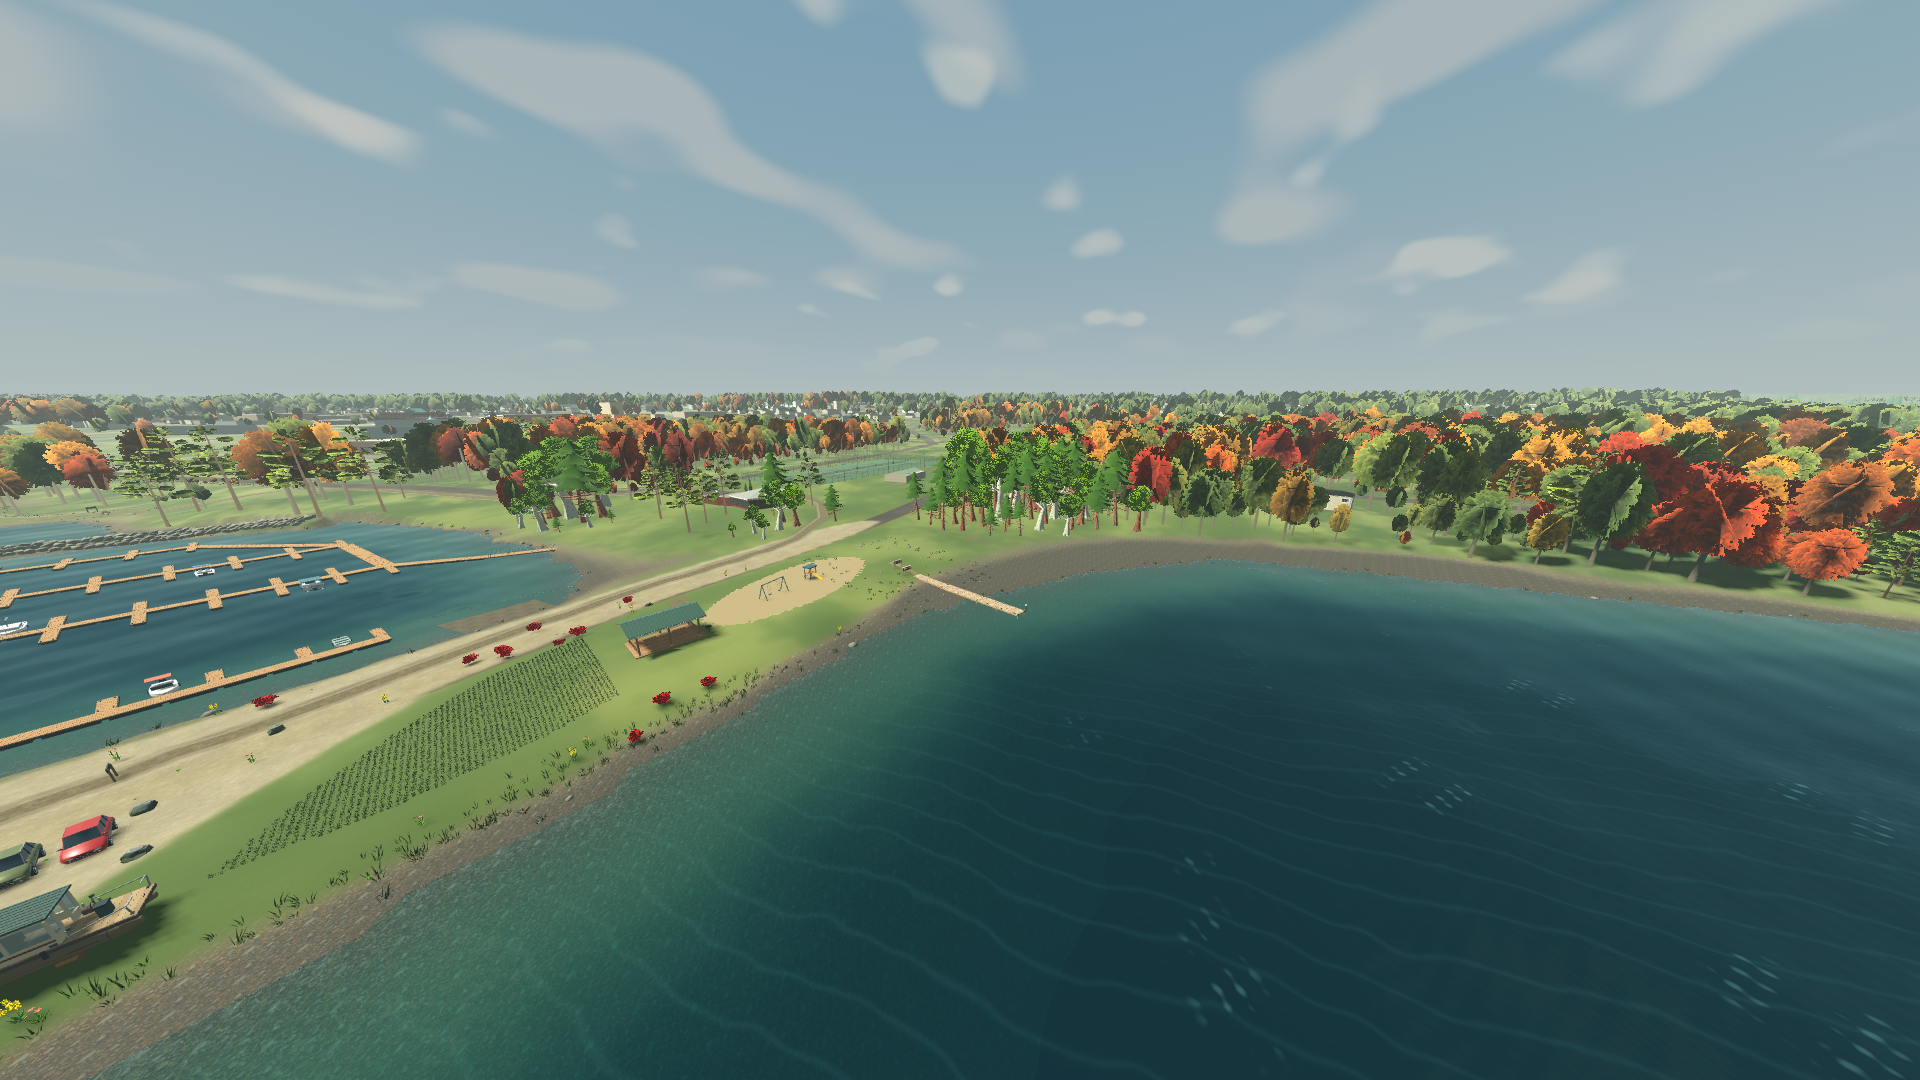
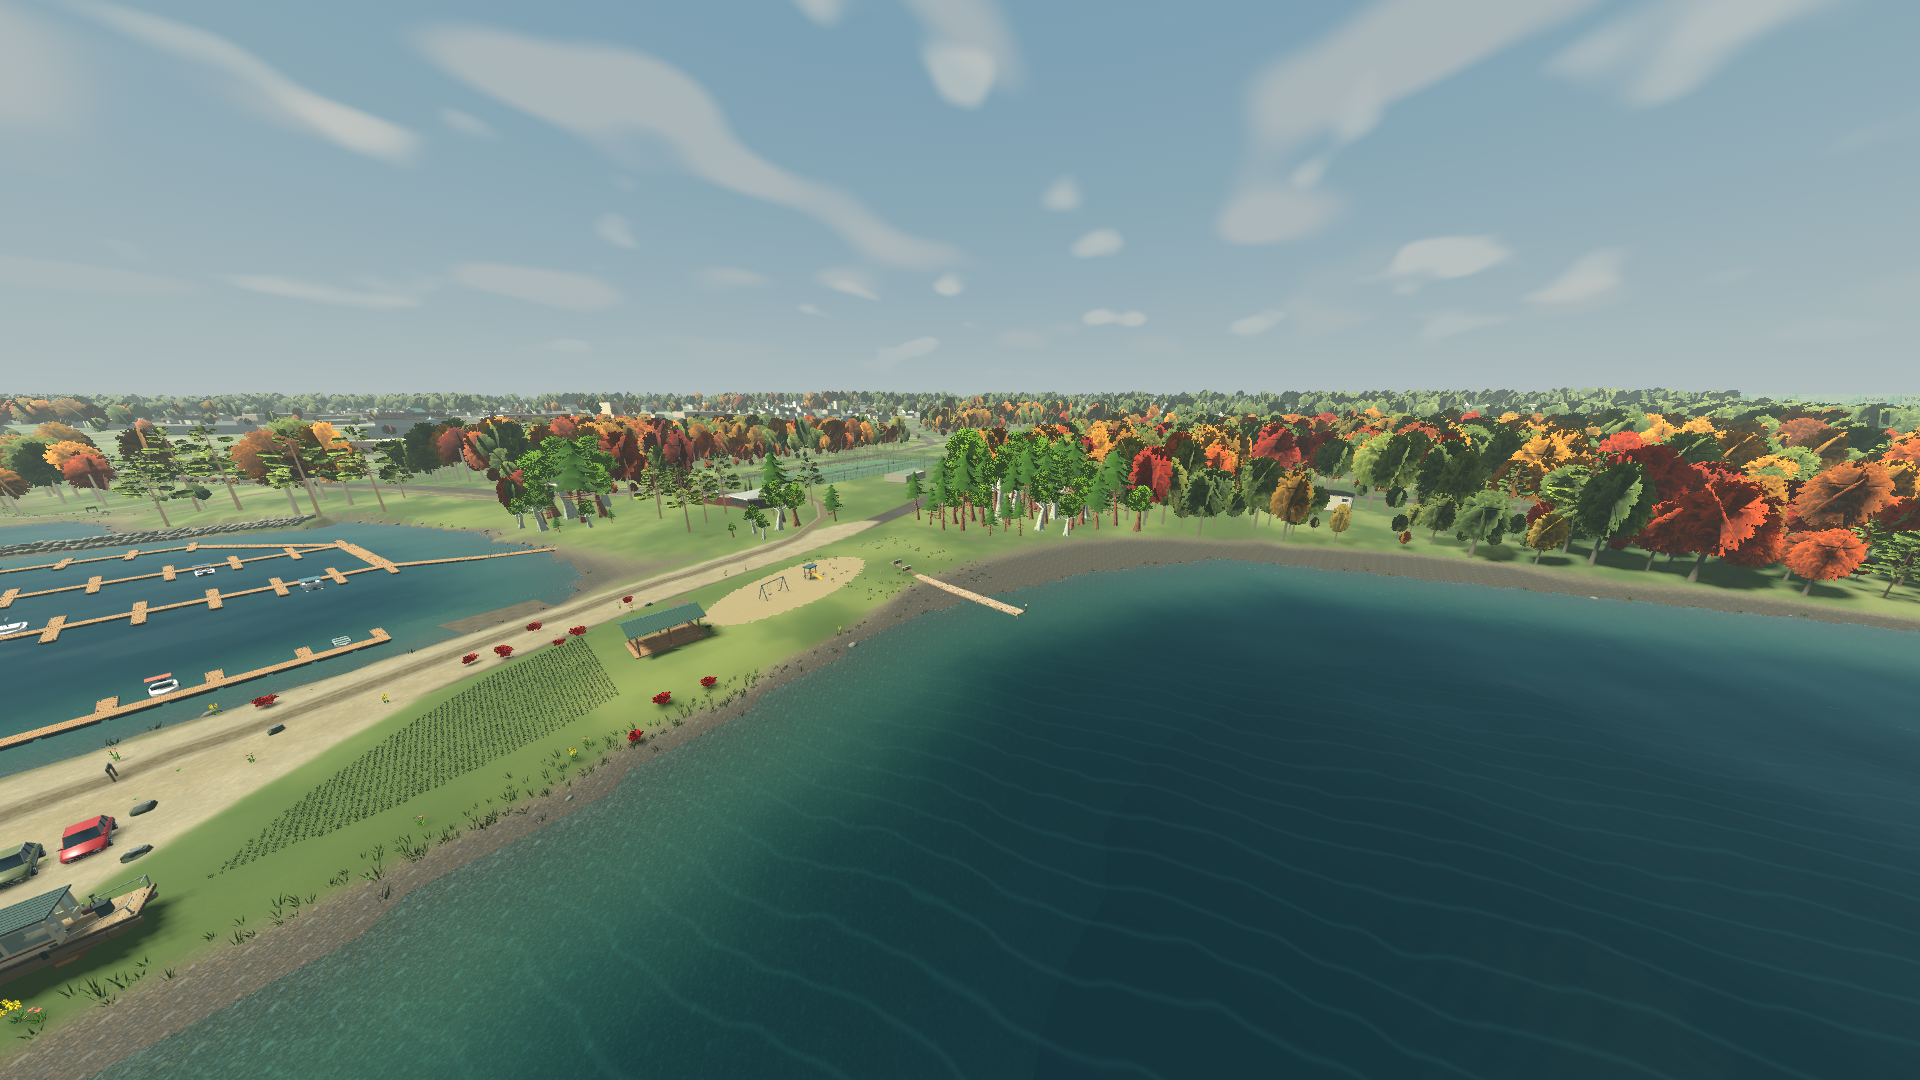
Record matched Riverside iteration two verification

diff --git a/docs/systems/RIVERSIDE-POC.md b/docs/systems/RIVERSIDE-POC.md
@@ -12,7 +12,7 @@ The experiment is geographically focused near the pavilion. Iteration 2 terrain 
 
 ## Reproducible visual checks
 
-Run `godot --path godot-cove --rendering-method gl_compatibility --script res://tests/capture_riverside.gd -- --benchmark --capture-dir=../docs/riverside-evidence/baseline` for the original, then add `--riverside-poc` and use the `experimental` directory. The script fixes the camera from the marina pavilion coordinates in the checked-out layout, uses the same FOV and day-cycle stages for both profiles, and sets Balanced at 1920 × 1080. It writes five PNGs per profile: public wharf, marina park, boat viewpoint, golden hour, and night marina. These are actual runtime screenshots; the capture script is in the repository. The screenshot pairs are in [riverside-evidence](../riverside-evidence/).
+Run `godot --path godot-cove --rendering-method gl_compatibility --script res://tests/capture_riverside.gd -- --benchmark --capture-dir=../docs/riverside-evidence/baseline` for the original, then add `--riverside-poc` and use the `experimental` directory. The script fixes the camera from the marina pavilion coordinates in the checked-out layout, uses the same FOV and day-cycle stages for both profiles, and sets Balanced at 1920 × 1080. It writes eight PNGs per profile: public wharf, marina park, wide meadow, inland ridge, elevated marina, boat viewpoint, golden hour, and night marina. These are actual runtime screenshots; the capture script is in the repository. The initial five screenshot pairs are in [riverside-evidence](../riverside-evidence/).
 
 For 720p Performance pass `--preset=performance --capture-resolution=720` after `--`. The capture script temporarily disables a locally saved fullscreen preference and sets the window to 1280 × 720; both the script's earlier resize and Godot's startup `--resolution` option were overridden by that preference. Check the `CAPTURE` dimensions printed in the log. For each view, the script samples 300 frames after a short settle, reports median and 95th percentile wall time between rendered frames and draw calls, then checks mower index identity, cut, regrow, and profile deactivation outside the marina. This is a single stationary-camera run, not the requested three 30-second moving samples; it includes desktop scheduling and can show outliers. It does not provide a separate GPU timer or measure VRAM. See the draft PR for the measured results and test gaps.
 
@@ -46,8 +46,27 @@ The surveyed Quaternius tree geometry remains in place. A deterministic, species
 
 The visual method follows the terrain tint plus grass filling approach shown in the [Genshin Impact GDC presentation](https://media.gdcvault.com/GDC%2B2021/2021GDC%2B_%2BHaoyu%2BCai%2B_%2Bpresentation%2Bfile.pdf). [Godot's MultiMesh guidance](https://docs.godotengine.org/en/4.5/tutorials/performance/using_multimesh.html) recommends spatial separation because a MultiMesh culls as one object. Its [API documentation](https://docs.godotengine.org/en/4.5/classes/class_multimesh.html) also explains that `visible_instance_count` shows the first N instances, which caused hard rectangular density cuts in the prior layout. We inspected Poly Haven's [CC0 texture library and license](https://polyhaven.com/license); the existing grass photograph was a closer match for a green early-autumn meadow once its colour was used directly, so this iteration adds no new downloaded texture.
 
-Matched 1920 × 1080 Balanced screenshots for eight fixed camera views are in [iteration2/before](../riverside-evidence/iteration2/before/) and [iteration2/after](../riverside-evidence/iteration2/after/). The capture script prints candidate, accepted, masked, mowing, and chunk counts. The matched benchmark results and remaining playtest gaps are recorded below.
+Matched 1920 × 1080 Balanced screenshots for eight fixed camera views are in [iteration2/before](../riverside-evidence/iteration2/before/) and [iteration2/after](../riverside-evidence/iteration2/after/). The before checkout is the first Riverside profile with the same merged main changes, including PR #140's river waves and wakes. The capture script prints candidate, accepted, masked, mowing, and chunk counts. The final iteration placed 93,020 decorative clumps across 183 chunks within the 178 m experiment area, compared with the prior small rectangle. It excluded 10,977 candidates using paving and path masks and 1,334 candidates using mowing polygons; other candidates failed road, building, shore, dock, height, or playground checks.
+
+The matched 1920 × 1080 Balanced pass used Godot 4.7.2, GL Compatibility, NVIDIA GTX 1050, and the same saved VSync preference in both runs. Each view has 300 stationary frames after settling. Values are median / p95 milliseconds, followed by draw calls.
+
+| View | Iteration 1 | Iteration 2 | Draw calls |
+| --- | ---: | ---: | ---: |
+| Public wharf | 18.42 / 46.80 | 18.68 / 49.62 | 4005 → 4022 |
+| Marina park | 13.80 / 36.09 | 14.01 / 33.54 | 2889 → 2916 |
+| Wide meadow | 25.58 / 43.45 | 29.30 / 48.47 | 3049 → 3143 |
+| Inland ridge | 20.44 / 54.68 | 21.02 / 60.04 | 5484 → 5563 |
+| Elevated marina | 19.59 / 51.88 | 19.80 / 50.49 | 4547 → 4571 |
+| Boat viewpoint | 18.19 / 47.71 | 17.28 / 40.96 | 4265 → 4309 |
+| Golden hour | 22.41 / 56.54 | 24.20 / 52.88 | 5367 → 5388 |
+| Night marina | 18.75 / 47.01 | 18.57 / 45.47 | 4158 → 4185 |
+
+The wide meadow is the grass-heavy case and rose 14.5% in median frame time. These are wall-clock frame intervals with VSync and desktop scheduling; they are not isolated GPU timings. The final run had no script or shader errors. Mowing index equality, cut, regrow, and profile deactivation checks all returned true. The existing `Image.load_from_file` warnings appeared in both profiles.
+
+At 1280 × 720 Performance, the same wide meadow view measured 13.66 / 35.18 ms for iteration 1 and 16.25 / 39.96 ms for iteration 2, a 19.0% median increase; draw calls rose from 2640 to 2716. The printed capture dimensions confirmed 1280 × 720 despite the saved fullscreen preference. Only the wide meadow was sampled at this preset; [the 720p image pair](../riverside-evidence/iteration2/) is retained separately from the 1080p set. Moving-camera performance, GPU timer/VRAM, integrated GPU, and Scenic remain unmeasured.
+
+The headless `verify_gameplay_polish.gd` run passed with `--riverside-poc` after merging main. Its scripted checks covered weather transitions and persistence, camera occlusion, storm and shoreline wave exposure, fishing casts and bobbers, swimming entry, multiple wakes, steering, anchors, dock lines, and a real ENet late join with live synchronization. This is automated coverage of those systems, not a manual playthrough.
 
 ## Review limits
 
-The proof of concept requires a human pass for visual quality, transition smoothness while travelling across the marina boundary, water near/far seam during boating, gameplay access around decorative objects, host/guest play, and night navigation. The capture does not exercise vehicle controls, docking, fishing, fueling, saves, or a full day/night cycle. The Compatibility renderer and an NVIDIA GTX 1050 were used for the visual run; Forward+ and integrated GPU remain unmeasured. The CC0 Standard archive does not include the requested complete species range, so the selected vegetation palette is deliberately narrower.
+The proof of concept requires a human pass for visual quality, transition smoothness while travelling across the marina boundary, water near/far seam during boating, gameplay access around decorative objects, host/guest play, and night navigation. Manual driving, docking, fishing, fueling, saves, a full day/night cycle, and host/guest play remain open. The Compatibility renderer and an NVIDIA GTX 1050 were used for the visual run; Forward+ and integrated GPU remain unmeasured. The CC0 Standard archive does not include the requested complete species range, so the selected vegetation palette is deliberately narrower.
